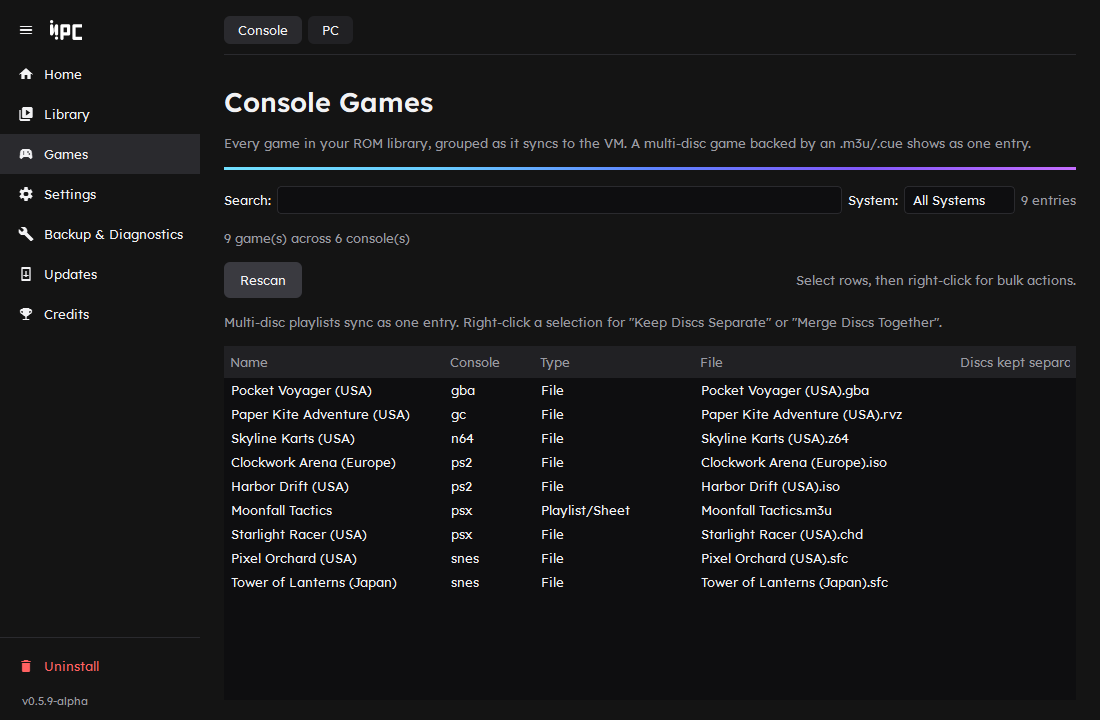
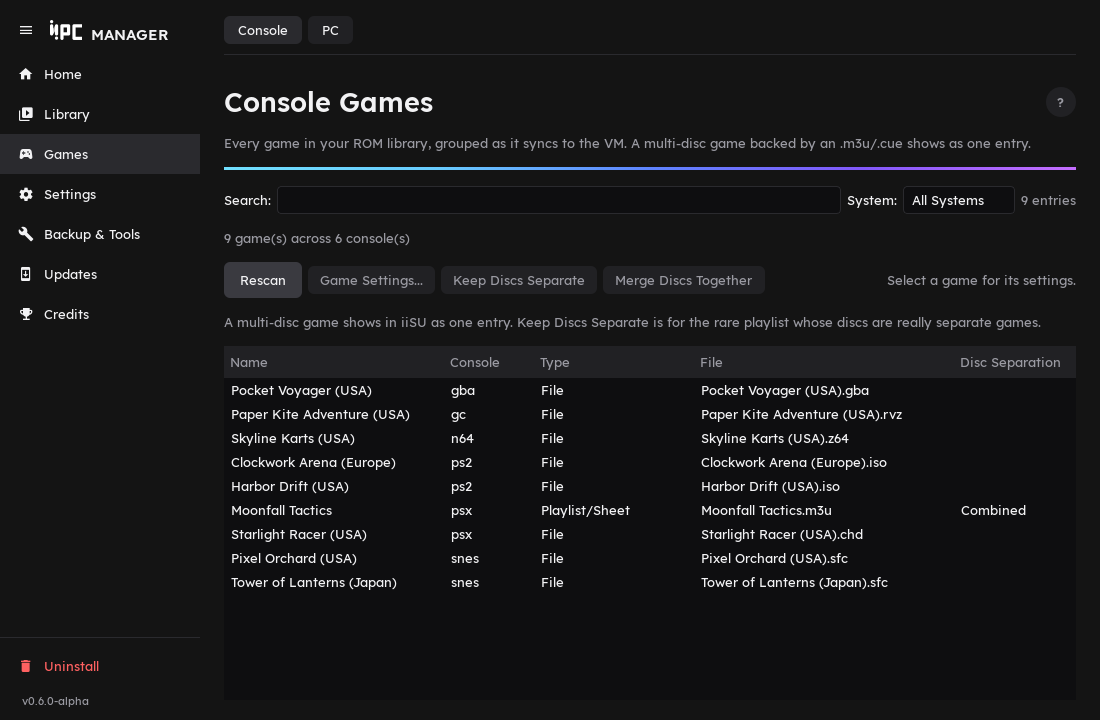
Docs and screenshots: match the new Manager
The user guide covers the new pieces (what happens when a game doesn't open, the console list on PC Emulators, the ROM folder's rename hints, the General, Controls and Advanced settings, automatic rescans and Sync Library Now), uses the Manager's new plain words, and has the headings each page's ? links to. Troubleshooting describes Diagnostics' fixes and Copy Report and the new common fixes, Installing describes Setup's checklist and the new onboarding, and the bug report form asks for the Diagnostics report. The four Manager screenshots are regenerated.

diff --git a/docs/using.md b/docs/using.md
@@ -2,10 +2,17 @@
 
 [Back to the README](../README.md) · Previous: [Installing](installing.md) · Next: [Troubleshooting](troubleshooting.md)
 
+Every page in the Manager has a **?** next to its title that opens its section of this guide.
+
 - [Starting and stopping](#starting-and-stopping)
+- [When a game doesn't open](#when-a-game-doesnt-open)
 - [The Manager](#the-manager)
+- [Your ROM folder](#your-rom-folder)
+- [PC emulators](#pc-emulators)
 - [Quitting a game: Escape and Select+Start](#quitting-a-game-escape-and-selectstart)
 - [The loading screen](#the-loading-screen)
+- [Settings](#settings)
+- [Display](#display)
 - [Updates](#updates)
 - [Console games and multi-disc playlists](#console-games-and-multi-disc-playlists)
 - [Per-game settings](#per-game-settings)
@@ -15,11 +22,15 @@
 
 ## Starting and stopping
 
-Double-click the **desktop shortcut** to start iiSU directly, or open the Manager and click **Start iiSU** on its Home page. **Stop** on the same page shuts the Android VM and the launch bridge down.
+Double-click the **desktop shortcut** to start iiSU directly, or open the Manager and click **Start iiSU** on its Home page. **Stop** on the same page shuts Android and the launch bridge down.
 
-On every start, your ROM library is re-synced into the VM automatically. iiSU still needs to notice new games: hit "Rescan full library" in its Library settings.
+On every start, your ROM library is copied into Android as tiny placeholder files. When that finds games added or removed, iiSU is asked to rescan its library by itself once it's open, so new games show up without visiting iiSU's settings. **Sync Library Now**, in the ▾ menu next to Stop, does the same while iiSU is already running. The automatic rescan can be turned off in **Settings > General**.
 
-Community-iiSU-PC uses a quick resume when nothing relevant has changed since the last start. It only cold-boots (a bit slower) on the very first start, or when something that changes the VM itself has changed: display, VM profile, USB passthrough, the AVD, or switching between a normal and a headless start. Adding ROMs or changing PC emulator mappings doesn't need a cold boot. Hover over the ▾ next to Start on the Home page to see which one the next start will be.
+Most starts are quick: Android resumes where it left off. It does a full restart (a bit slower) on the very first start, or when something about Android itself changed: display, VM profile, USB passthrough, or switching between a normal and a background start. Adding ROMs or changing PC emulators doesn't need one. Hover over the ▾ next to Start to see which the next start will be.
+
+## When a game doesn't open
+
+If a game can't open (its emulator isn't installed, the ROM has moved, a PC game's program is missing), a card covers the screen for a few seconds saying what went wrong and where to fix it. The Manager's Home page keeps the message, with when it happened, until you dismiss it, and **Backup & Tools > Diagnostics** lists it too. The technical details are in `bridge/launch_history.log`.
 
 ## The Manager
 
@@ -29,33 +40,45 @@ One window, navigated with the sidebar.
 
 | Page | What it's for |
 |---|---|
-| **Home** | Android VM and bridge status, Start/Stop, a running status line and a log drawer. |
-| **Library** | **ROM Directory** (your host ROM folder), **Media Library** (check/restore saved media), **Android Storage** (browse and manage the VM's shared storage over ADB). |
-| **Games** | **Console** (every detected ROM, grouped by multi-disc playlist) and **PC** (native apps and URI launches). |
-| **Settings** | **Display** (the VM's resolution and DPI), **VM Profiles**, **PC Emulators** (which PC emulator each console launches, downloading emulators, reinstalling iiSU's redirector apps), **Storage**, and **Advanced**. |
+| **Home** | Start and Stop, Android and launch bridge status, the last game that failed to open, and the ▾ menu. |
+| **Library** | **ROM Directory** (your ROM folder and where emulators are looked for), **Media Library** (check and restore saved artwork), **Android Storage** (browse and move files in Android). |
+| **Games** | **Console** (every game in your ROM folder) and **PC** (programs and Steam games). |
+| **Settings** | **General**, **Display**, **Controls**, **VM Profiles**, **PC Emulators**, **Storage** and **Advanced**. |
 | **Backup & Tools** | **Backup & Restore** and **Diagnostics**. |
 | **Updates** | Community-iiSU-PC and iiSU updates. |
 | **Credits** | Who built this and how. |
 | **Uninstall** | Below a divider at the bottom of the sidebar. |
 
+Lists have their actions as buttons beside them (they grey out until you select something they apply to), and in a right-click menu too.
+
 ### Home
 
-The ▾ next to Start has shortcuts to your ROMs and logs folders, **Recreate Shortcut**, **Add to Steam** and **Remove from Steam**, a **Show Logs** tick box and **Clear Resume State**. Hovering over it says whether the next start will be a quick resume or a cold boot, and why.
+The ▾ next to Start has **Start in the Background**, **Sync Library Now**, shortcuts to your ROMs and logs folders, **Recreate Shortcut**, **Add to Steam** and **Remove from Steam**, a **Show Logs** tick box and **Make Next Start a Full Restart**.
 
-- **Show Logs** shows the log of what Start and Stop are doing at the bottom of the Home page. It stays the way you left it.
-
-- **Recreate Shortcut**, like the end of onboarding, asks whether the desktop shortcut that starts iiSU shows iiSU's own icon (taken from your iiSU APK) or Community-iiSU-PC's iiPC icon. The Manager has its own icon either way. Onboarding's also lets you go without a desktop shortcut.
-- **Boot Headless (no window)** boots the VM without its window or the launch bridge. A headless boot always cold boots, ignores and clears the saved resume state, and on Windows uses the host GPU with audio off, because a windowless emulator that renders in software crashes shortly after Android boots. Its Ready means Android has finished booting: the start waits on the VM for the boot animation to end, then watches the emulator for 10 more seconds, and if it dies it says so with the exit code and retries. It isn't available with Waydroid, which has no window to leave out: the menu item is greyed out and a headless start request just starts normally.
-
-### Settings > Advanced
-
-AVD name, bridge port, hotkeys, the volume Android is set to when iiSU starts, and debugging options such as "Show console windows".
-
-A new Android VM starts at about half volume, so by default each start sets it to 100%. Pick another level, or untick the box to leave the volume wherever it was last set inside the VM.
+- **Show Logs** shows what Start and Stop are doing at the bottom of the Home page. It stays the way you left it.
+- **Recreate Shortcut** asks whether the desktop shortcut shows iiSU's own icon (taken from your iiSU APK) or Community-iiSU-PC's iiPC icon.
+- **Start in the Background (no window)** starts Android without its window or the launch bridge, for running it unattended. It always does a full restart, and on Windows uses the graphics card with sound off, because a windowless emulator that draws in software crashes shortly after Android starts. It isn't available with Waydroid, which has no window to leave out.
+- **Make Next Start a Full Restart** is for when iiSU seems stuck after a quick start.
 
 ### Backup & Restore
 
-Back up configuration to a ZIP or restore an earlier one, plus a separate backup of the artwork and media files iiSU keeps inside the running VM. iiSU's private in-app data, such as favorites and play history, can't be backed up.
+Back up your settings to a ZIP or restore an earlier one, plus a separate backup of the artwork and media iiSU keeps inside Android. iiSU's private in-app data, such as favorites and play history, can't be backed up.
+
+## Your ROM folder
+
+**Library > ROM Directory** is the folder that holds one subfolder per console (`psx`, `snes`, `gc` and so on). Under it, it says which folders iiSU will recognize, and for one it won't, what to rename it to ("SNES Roms" to `snes`). The onboarding wizard offers to rename them for you. The list below is where PC emulators are looked for: add the folder you install emulators into.
+
+## PC emulators
+
+![The PC Emulators page](images/manager-pc-emulators.png)
+
+**Settings > PC Emulators** lists every console with the emulator its games open in, how many of your files it has, and whether that emulator is installed. The consoles in your ROM folder come first, and the line above the list says which emulators they still need.
+
+- **Download** on a row, or **Download What's Missing...**, installs emulators with winget (Windows) or Flatpak (Linux). Emulators the downloader doesn't offer (Citron, Ryujinx, Vita3K, Xenia) you install yourself, then press **Check Again**.
+- **Change...** picks another emulator for a console, from the known ones or any program on your PC. Its launch options are filled in for you.
+- Consoles that run through RetroArch pick a core per file type, so they can't be changed here; change a single game in [Per-game settings](#per-game-settings).
+
+**Show the raw mapping table** is for the rare change the list can't make: it shows what `config.json` stores, the Android package iiSU asks for, the PC program it opens and the options it's started with. It also has **Reinstall iiSU's Emulator Placeholders...**: iiSU only offers a console once it sees an emulator app for it in Android, so Setup installs a tiny placeholder app for each, and this puts them back if they went missing.
 
 ## Quitting a game: Escape and Select+Start
 
@@ -67,9 +90,9 @@ By default, **Escape** controls game quitting and shutdown:
 | In iiSU | Shuts Community-iiSU-PC down | |
 | In a Windows or Steam game | Left to the game (usually its pause or menu key) | Asks the game to close as its window's X would, and only ends it by force if it is still running five seconds later |
 
-The key only acts while iiSU, or the game or emulator it started, is the window in front, so pressing Escape in a browser or anything else never quits your game or shuts the VM down.
+The key only acts while iiSU, or the game or emulator it started, is the window in front, so pressing Escape in a browser or anything else never quits your game or shuts Android down.
 
-Pressing **Select+Start** together on a controller does the same thing on either platform, and the chord is remappable to any combination of buttons. Escape itself is rebindable in **Settings > Advanced** on both platforms.
+Pressing **Select+Start** together on a controller does the same thing. Both, and an optional key that shuts everything down from anywhere, are set in **Settings > Controls**.
 
 On Windows, a DualSense or DualShock 4 plugged in without Steam Input (or another tool) translating it can't drive iiSU's menus. When that happens a small notice says so and where to turn it on in Steam (**Settings > Controller**). Tick **Don't show this again** on the notice and it never appears again.
 
@@ -77,11 +100,29 @@ On Linux, Alt+F4, Ctrl+Q, and Ctrl+Alt+X also force a full shutdown, and Ctrl+Sh
 
 ## The loading screen
 
-A fullscreen overlay covers the VM boot and the emulator hand-off, showing what's happening ("Booting Community-iiSU-PC...", "Waiting on DuckStation...") instead of raw desktop. It's off while the debug console checkbox is on.
+A loading screen covers Android starting and the hand-off to a game ("Waiting on DuckStation..."), instead of showing your desktop. It's off while the debugging consoles are on.
 
-While Community-iiSU-PC starts, it shows a progress bar with a percentage and the step it is on (the Android VM, your ROM library, iiSU and the launch bridge). The percentage is an estimate from how long each step took on your PC the last few times, kept separately for a quick resume and a full boot, so the very first start uses typical times and it gets more accurate after that. Tick **Show details (the start log) on the loading screen** in Settings > Advanced to also see the log of what it is doing underneath the bar. Waiting on a game to open has nothing to measure, so that screen keeps its moving bar.
+While Community-iiSU-PC starts, it shows a progress bar with a percentage and the step it is on. The percentage is an estimate from how long each step took on your PC the last few times, kept separately for a quick start and a full restart, so it gets more accurate after the first few starts. Tick **Show details (the start log) on the loading screen** in **Settings > General** to see what it's doing underneath.
 
 The loading screen can always be hidden with Escape or a click, and closes by itself if whatever opened it stops.
+
+## Settings
+
+Settings can only be saved while iiSU is stopped; the save bar has a **Stop iiSU** button for that. Changes apply the next time iiSU starts.
+
+| Page | What's on it |
+|---|---|
+| **General** | Rescanning iiSU's library by itself, Android's volume each time iiSU starts (a new Android VM starts at about half volume), and the loading screen. |
+| **Display** | See [Display](#display). |
+| **Controls** | The quit key, an optional key that shuts everything down, and the controller buttons that quit a game. |
+| **VM Profiles** | See [VM profiles](#vm-profiles). |
+| **PC Emulators** | See [PC emulators](#pc-emulators). |
+| **Storage** | How Android's internal storage is used, and changing its size: see [Troubleshooting](troubleshooting.md#seeing-and-changing-the-vms-storage). |
+| **Advanced** | Rarely needed: how iiSU's window is recognized, the launch bridge's port, the Android VM's name, and the debugging consoles. |
+
+## Display
+
+**Settings > Display** sets the size iiSU's screen is drawn at, its text and icon size, and whether iiSU is shown fullscreen. It only affects iiSU itself: games run at your monitor's own resolution. **Auto-detect from primary monitor** fills it in from your screen. A change makes the next start a full restart.
 
 ## Updates
 
@@ -95,16 +136,17 @@ The same page checks whether a newer iiSU is available (against its official Git
 
 ![The Console Games page](images/manager-games.png)
 
-**Games > Console** lists every game detected in your ROM library, grouped the same way syncing to the VM does: a multi-disc game backed by an `.m3u`/`.cue` shows up as one entry, not one per disc. Select rows and right-click for two exceptions to that default:
+**Games > Console** lists every game in your ROM folder, grouped the same way syncing does: a multi-disc game backed by an `.m3u`/`.cue` shows up as one entry, not one per disc. Select a game for its buttons:
 
-- **Keep Discs Separate** is for a game like Gran Turismo 2, where an `.m3u` actually bundles distinct, separately-launchable modes rather than continuation discs: the individual files show up in iiSU as their own entries instead, and the playlist/sheet itself is hidden from iiSU (still listed on this page, greyed as "hidden", so you can merge it back together later). Only applies to selected playlists/sheets, never to a plain single-file game.
-- **Merge Discs Together** undoes that for a previously-excepted playlist/sheet.
+- **Game Settings...** (or double-click): see [Per-game settings](#per-game-settings).
+- **Keep Discs Separate** is for a game like Gran Turismo 2, where an `.m3u` actually bundles separately playable modes rather than continuation discs: each file shows in iiSU as its own entry, and the playlist itself is hidden from iiSU (still listed here, greyed as "hidden", so you can merge it back later).
+- **Merge Discs Together** undoes that.
 
-Both take effect on your next Start, not while Community-iiSU-PC is already running.
+Both take effect on your next Start.
 
 ## Per-game settings
 
-Right-click a single game and choose **Game Settings...** to change how just that game launches:
+Select a game and choose **Game Settings...** to change how just that game launches:
 
 - use a different PC emulator than the console default
 - add extra command-line flags
@@ -115,33 +157,33 @@ Games with settings are marked "(custom settings)" in the list. They're stored i
 
 ## PC apps and games
 
-**Games > PC** lets iiSU launch native applications in addition to emulated console games: an executable (`.exe` on Windows) or a registered URI/protocol such as `steam://rungameid/...` on either platform.
+**Games > PC** lets iiSU launch programs on your PC as well as console games: an executable (`.exe` on Windows) or a link such as `steam://rungameid/...` on either platform.
 
-Use **Add** for individual programs, or **Import Steam Library** to pick installed Steam games and create URI-based entries automatically (Steam's Linux install locations, including Flatpak, are detected too). The page also includes import/export and a health check for missing executables, placeholders, and other library inconsistencies.
+Use **Add Application...** for individual programs, or **Choose Games...** and **Auto-import New** in the Steam card to add installed Steam games (Steam's Linux install locations, including Flatpak, are found too). Select a game for **Test**, **Edit...** and **Remove**; **More...** has import, export and repair tools, and **Health Check...** finds missing programs and other problems.
 
-Executable paths are specific to the PC they were configured on, while URI-based entries are generally more portable.
+Program paths are specific to the PC they were set up on, while Steam links work anywhere Steam has the game.
 
 <details>
 <summary>How it's stored</summary>
 
-Each entry is represented in iiSU by an empty `.pcgame` placeholder under `bridge/windows_stubs/` (the name is historical, from before Linux support), kept out of your actual ROM directory so it never shows up when you're browsing your real ROM library. The real launch information stays in `bridge/windows_apps.json`; the launch bridge intercepts iiSU's request for the placeholder and starts the configured target instead. Syncing into the VM merges these placeholders into iiSU's `windows` folder automatically. `windows_apps.json` is local runtime configuration and is intentionally ignored by Git.
+Each entry is represented in iiSU by an empty `.pcgame` placeholder under `bridge/windows_stubs/` (the name is historical, from before Linux support), kept out of your actual ROM folder so it never shows up when you're browsing your real library. The real launch information stays in `bridge/windows_apps.json`; the launch bridge intercepts iiSU's request for the placeholder and starts the configured program instead. Syncing into Android merges these placeholders into iiSU's `windows` folder automatically. `windows_apps.json` is local to your PC and is ignored by Git.
 
 </details>
 
 ## VM profiles
 
-**Settings > VM Profiles** holds named launch configurations for the Android SDK emulator: GPU rendering (`auto`, `host`, `swiftshader_indirect`, `angle_indirect`), hardware acceleration, CPU cores, RAM, audio (speakers only, the default; microphone and speakers; or no audio), extra emulator flags, and environment variables.
+**Settings > VM Profiles** holds named ways of running the Android VM: graphics (`auto`, `host`, `swiftshader_indirect`, `angle_indirect`), hardware acceleration, processor cores, memory, sound (speakers only, the default; microphone and speakers; or no sound), extra emulator flags, and environment variables. The default suits most PCs; try another only to fix a problem.
 
-Pick a profile, Save, Stop, then Start to test it; a profile change cold-boots the VM once. Presets cover the usual suspects, and Duplicate lets you A/B one change at a time.
+Pick a profile, Save, Stop, then Start to test it; a profile change makes the next start a full restart. Presets cover the usual suspects, and Duplicate lets you try one change at a time.
 
-To chase down audio problems: duplicate your profile, try "Speakers only", then "No audio at all" to confirm audio is the cause, then try other GPU modes.
+To chase down sound problems: duplicate your profile, try "Speakers only", then "No audio at all" to confirm sound is the cause, then try other graphics modes.
 
-Every profile also sets `QEMU_AUDIO_TIMER_PERIOD=1000`, which stops the emulator's sound from crackling on Windows; a profile's own environment variables can override it. Profiles only change launch options on the AVD that Setup created, not which Android system image it runs. They don't apply on Waydroid.
+Every profile also sets `QEMU_AUDIO_TIMER_PERIOD=1000`, which stops the emulator's sound from crackling on Windows; a profile's own environment variables can override it. Profiles only change how the VM Setup created is run, not which Android it runs. They don't apply on Waydroid.
 
 ## Steam and Steam Deck
 
 **Add to Steam**, in the ▾ menu next to Start on the Home page, adds Community-iiSU-PC to Steam as a non-Steam game (on Windows and Linux, native or Flatpak Steam), so you can start it from Steam's library, Big Picture, or a Steam Deck's Game Mode.
 
-Close Steam first: it rewrites its shortcut list when it exits and would undo the change, so it refuses while Steam is running. The previous list is kept as a `.bak` next to it, and **Remove from Steam** undoes it. The shortcut starts the VM and bridge and then ends, so Steam shows it as stopped while iiSU keeps running.
+Close Steam first: it rewrites its shortcut list when it exits and would undo the change, so it refuses while Steam is running. The previous list is kept as a `.bak` next to it, and **Remove from Steam** undoes it. The shortcut starts Android and the bridge and then ends, so Steam shows it as stopped while iiSU keeps running.
 
 Steam Deck specifics are on the [Linux page](linux.md#steam-deck).

diff --git a/docs/troubleshooting.md b/docs/troubleshooting.md
@@ -13,7 +13,9 @@
 
 ## Start here: Diagnostics
 
-Run the Manager's **Backup & Tools > Diagnostics** page first. It is a non-destructive check of the installation, configuration, Android VM/ADB, bridge, PC apps, Steam integration, and logs, and its findings usually say what to do next.
+Run the Manager's **Backup & Tools > Diagnostics** page first. It checks your install without changing anything: settings, Android, the launch bridge, your emulators against the consoles in your ROM folder, PC games, Steam, logs, and the last game that failed to open.
+
+It lists only what needs looking at, each with a button that does something about it (open the page that fixes it, repair the settings, copy an install command). The checks that passed are under **Show passing checks**. **Copy Report** puts the results on the clipboard for a bug report, with your user folder and account name taken out.
 
 ## Logs
 
@@ -24,6 +26,7 @@ Open them from the ▾ next to Start on the Manager's Home page: tick **Show Log
 | `start.log` | The last start, however it was begun (including from the desktop shortcut, which has no window to show it in) |
 | `emulator.log` | The Android VM |
 | `bridge.log` | The launch bridge |
+| `launch_history.log` | Every game launch and how it went, one line each |
 | `stop.log` | The last shutdown |
 | `setup.log` | Setup, kept even if the window is closed partway |
 | `manager_debug.log`, `bridge_debug.log` | Manager and launch-bridge diagnostics, including uncaught Python exceptions that might otherwise disappear when a console closes |
@@ -35,9 +38,11 @@ The start and Setup logs open with the PC's details (Windows or Linux version, p
 | Symptom | Try |
 |---|---|
 | Setup fails early, or the VM never boots | Check CPU virtualization is turned on (see [Requirements](installing.md#requirements)); `setup.log` and `start.log` report what acceleration they found |
-| A game doesn't launch | Check the console's mapping in **Settings > PC Emulators** and that the emulator is inside one of your search folders; `bridge.log` shows what the bridge looked for |
-| New games don't show up in iiSU | Stop and Start (the library syncs on every start), then "Rescan full library" in iiSU's Library settings |
-| Crackling or missing audio | Try other audio and GPU options in a duplicate [VM profile](using.md#vm-profiles) |
+| A game doesn't launch | The card that appears, and the Home page, say why. **Settings > PC Emulators** shows whether each console's emulator is installed; `launch_history.log` has the details |
+| New games don't show up in iiSU | Use **Sync Library Now** in the ▾ menu next to Stop, or Stop and Start. iiSU rescans by itself unless that's turned off in **Settings > General**; otherwise use "Rescan full library" in iiSU's Library settings |
+| A console's games are missing from iiSU | Its folder name isn't one iiSU knows. **Library > ROM Directory** says what to rename it to |
+| Crackling or missing audio | Try other sound and graphics options in a duplicate [VM profile](using.md#vm-profiles) |
+| iiSU seems stuck after starting | **Make Next Start a Full Restart** in the ▾ menu next to Start, then Start again |
 | iiSU crashes at startup or while scanning | See [If the VM runs out of internal storage](#if-the-vm-runs-out-of-internal-storage) |
 | The Manager says the settings are damaged | See [If the settings file is damaged](#if-the-settings-file-is-damaged) |
 
@@ -94,6 +99,7 @@ Freeing space without rebuilding is rarely enough: clearing Android's caches fre
 
 - what you did and what happened instead
 - your Community-iiSU-PC version (bottom of the Manager's sidebar) and your iiSU version
-- `start.log` or `setup.log`, whichever covers the failure, plus `bridge.log` for a game that won't launch
+- **Copy Report** from Diagnostics
+- `start.log` or `setup.log`, whichever covers the failure, plus `launch_history.log` and `bridge.log` for a game that won't launch
 
 The logs start with your PC's details, so you don't need to describe your hardware separately. They include folder paths from your PC, such as your ROM folder, so glance through them before posting.

diff --git a/docs/installing.md b/docs/installing.md
@@ -53,11 +53,18 @@ git clone https://github.com/MAGOOSKEE/Community-iiSU-PC.git
    - From source on Windows: run **`Community-iiSU-PC Manager.bat`**.
    - Linux: run **`./Community-iiSU-PC\ Manager.sh`**.
 2. Click **Run Setup** on its Home page.
-3. Point Setup at your iiSU APK with Browse (or drop the APK into `installer/input/` beforehand).
+3. Choose **Download the latest official release** (Setup fetches iiSU from its GitHub releases and checks it), or **Use my own APK** and Browse to it (or drop the APK into `installer/input/` beforehand).
 
-Setup checks your APK is actually iiSU and that you have enough disk space, then downloads and sets up a self-contained Android SDK and virtual device, patches your APK, installs it, installs a redirector app for every console it knows about, and creates a desktop shortcut. It shows which step it's on, since a first run can take a while and several GB.
+Setup checks your APK is actually iiSU and that you have enough disk space, then downloads and sets up a self-contained Android VM, patches your APK, installs it, installs a placeholder emulator app for every console it knows about, and creates a desktop shortcut. It lists its steps and ticks each off, with how long the current one has taken and what to expect from the slow ones; a first run takes a while and downloads several GB. **Show details** opens its log, and if a step fails the log opens by itself.
 
-Once it's done, a short onboarding wizard walks you through your ROM directory, emulator search folders (or downloading emulators directly), display resolution, and hotkeys. The Manager's settings pages are there afterward for anything the wizard doesn't cover, and its Home page switches from "Run Setup" to "Start iiSU" once setup finishes.
+Once it's done, a short onboarding wizard walks you through:
+
+- **Your ROM folder.** It says which console folders iiSU will recognize, suggests a name for any it won't, and can rename them for you.
+- **Where you install PC emulators.** Fine to leave as it is if you haven't installed any yet.
+- **Your emulators.** The consoles in your ROM folder come first, with **Download What's Missing...** for the emulators they need.
+- **Display and hotkeys.**
+
+The Manager's settings pages are there afterward for anything the wizard doesn't cover, and its Home page switches from "Run Setup" to "Start iiSU" once setup finishes.
 
 Re-running Setup is safe: it skips anything already done and won't overwrite an existing `config.json`'s settings.
 

diff --git a/README.md b/README.md
@@ -92,7 +92,7 @@ Out of the box, consoles are mapped to DuckStation, PCSX2, RPCS3, PPSSPP, Vita3K
 
 ## Getting help
 
-Run **Backup & Tools > Diagnostics** in the Manager first: it checks the install without changing anything. If that doesn't settle it, [open an issue](https://github.com/MAGOOSKEE/Community-iiSU-PC/issues/new/choose) and attach the logs the form asks for. This is alpha software, so reports are welcome.
+Run **Backup & Tools > Diagnostics** in the Manager first: it checks the install without changing anything and offers a fix for what it finds. If that doesn't settle it, [open an issue](https://github.com/MAGOOSKEE/Community-iiSU-PC/issues/new/choose), paste in Diagnostics' **Copy Report**, and attach the logs the form asks for. This is alpha software, so reports are welcome.
 
 ## Credits
 
